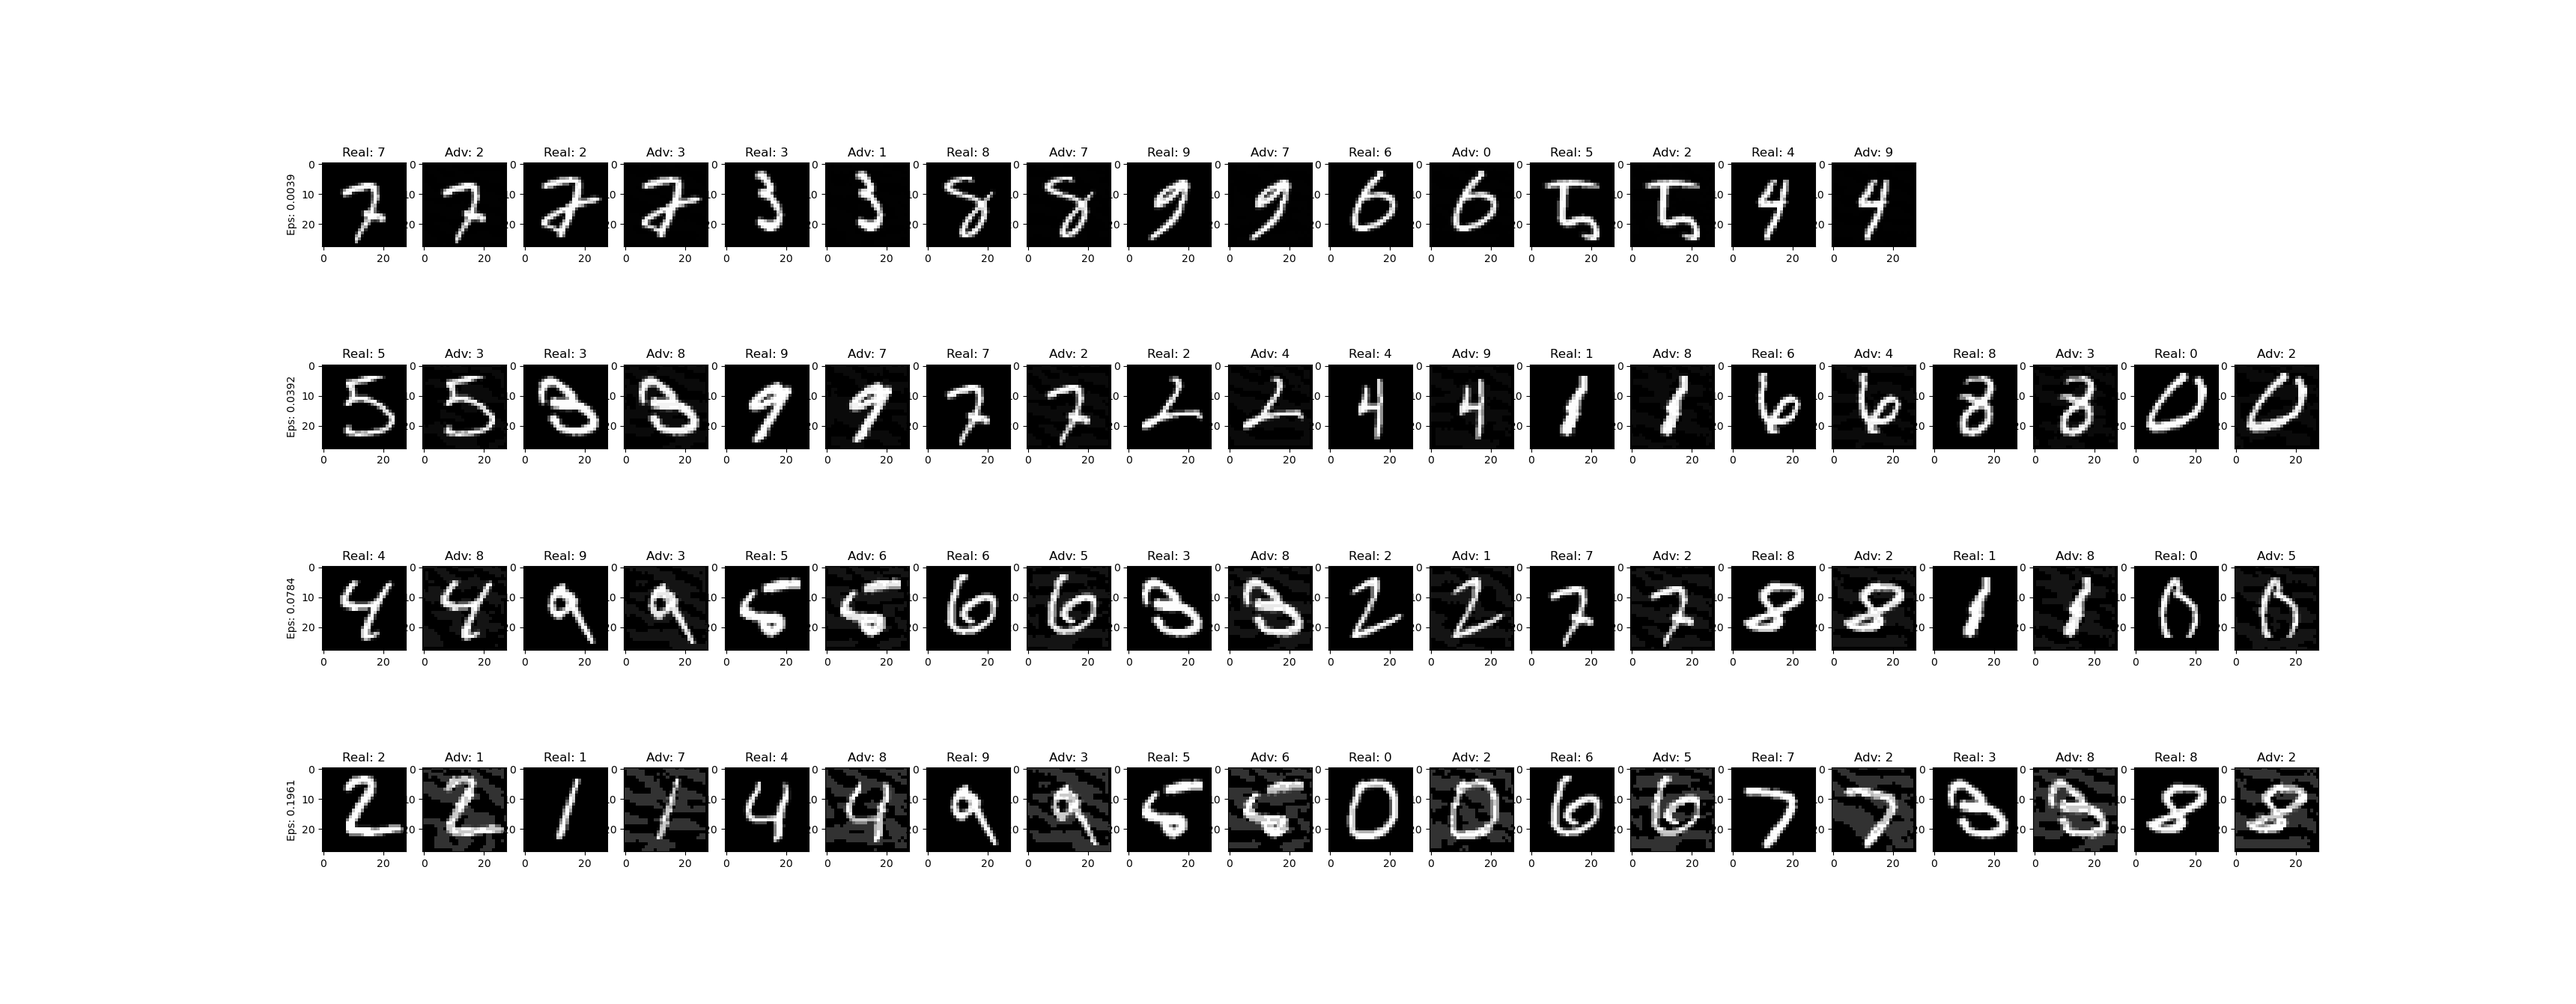
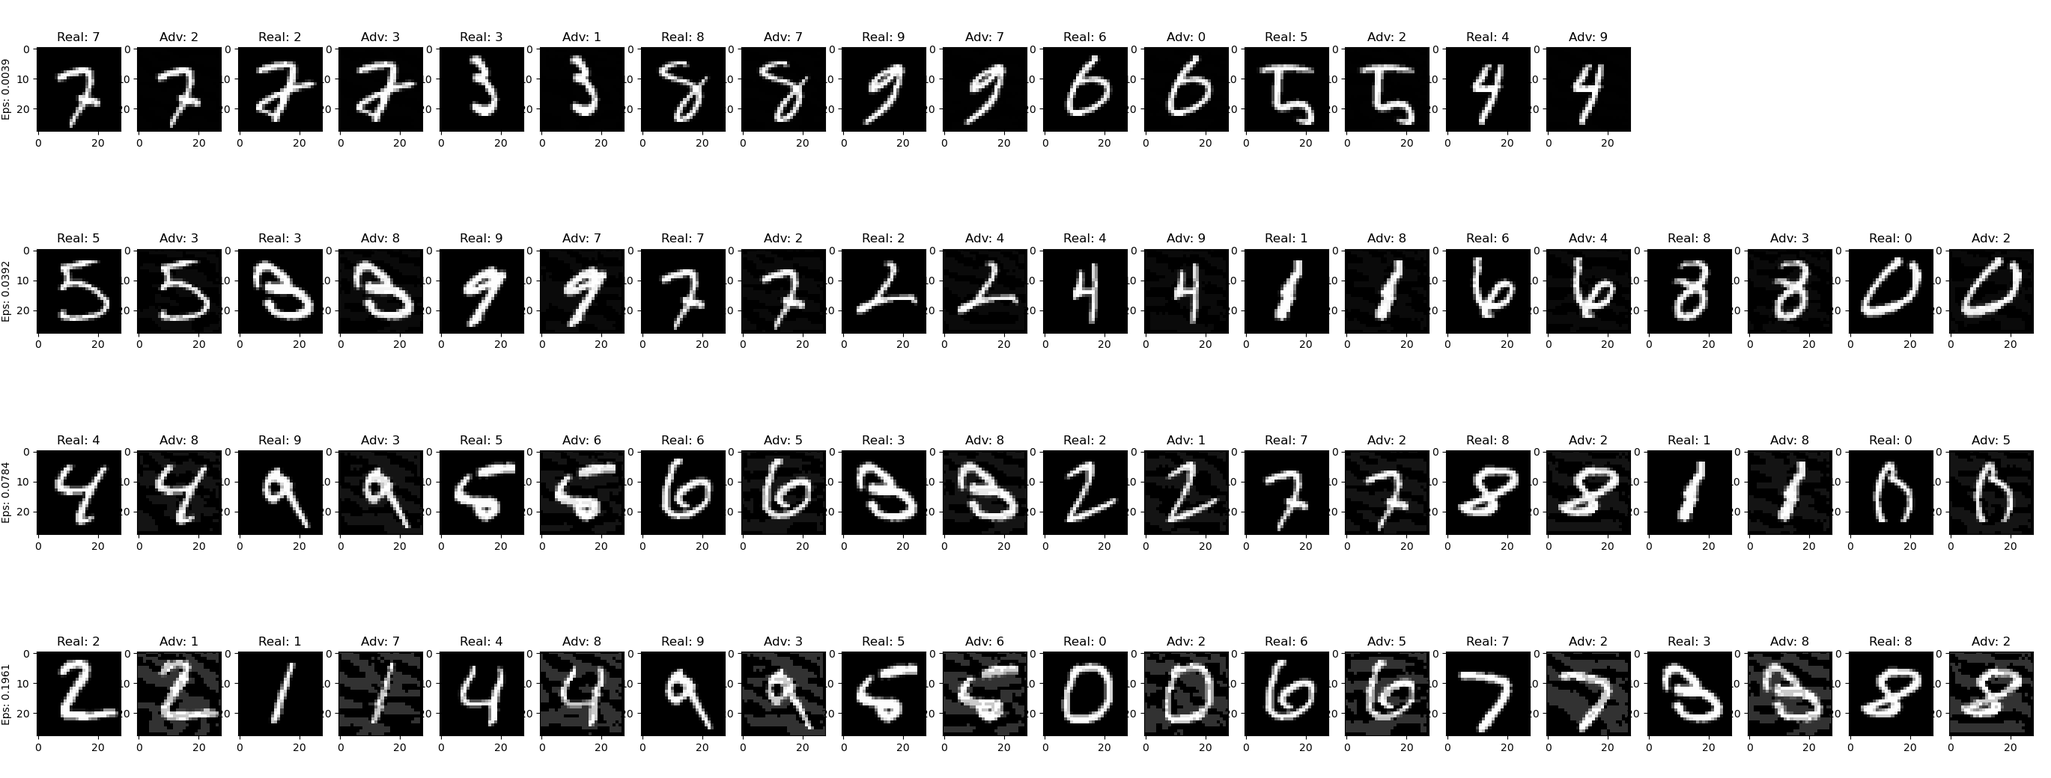
complete Multi-Targeted FGSM attack

diff --git a/attack.py b/attack.py
@@ -7,13 +7,13 @@ from time import time
 from torch.utils.data import DataLoader
 from torchvision.datasets import MNIST
 from models import Net2
-from utils import train, deepfool, fgsm_attack, test
+from utils import deepfool, fgsm_attack, test
 
 train_dataset = MNIST('./data', train=True, transform=torchvision.transforms.ToTensor(), download=True)
 test_dataset = MNIST('./data', train=False, transform=torchvision.transforms.ToTensor(), download=True)
 train_loader = DataLoader(train_dataset, 128)
 test_loader = DataLoader(test_dataset, 1)   
-# change 1 image each batch to get better adversarial examples
+# change 1 image each batch to get adversarial examples easier
 
 device = torch.device('cuda' if torch.cuda.is_available() else 'cpu')
 epsilons = np.array([1, 10, 20, 50]) / 255
@@ -212,6 +212,101 @@ for i, epsilon in enumerate(epsilons):
                 img = img.squeeze().detach().numpy()
                 pert_img = pert_img.squeeze().detach().numpy()
                 fgsm_examples[i].append((orig_target.item(), pert_target.item(), img, pert_img))
+        
+        if (k + 1) % 2000 == 0:
+            end = time()
+            print('fgsm attack on test image {}, total time spent {:.4f}'.format(k + 1, end - start))
+    
+    total_num = len(test_dataset)                               # No.(imgs)
+    attack_num = total_num - error                              # No.(attacked imgs)
+    attack_success_num = total_num - error - correct - failure  # No.(attacked succeeded imgs)
+    acc_rate = correct / total_num
+
+    rou_value[i] = rou / attack_success_num
+    asr_values[i] = attack_success_num / attack_num
+    print('epsilon: {:.4f}, accuracy: {:.4f}, attack success rate: {:.4f}, rou value: {:.4f}'.format(epsilon, acc_rate, asr_values[i], rou_value[i]))
+
+for i in range(len(epsilons)):
+    idx = 0
+    col = min(len(fgsm_examples[i]), 4)
+    row = int(np.ceil(len(fgsm_examples[i]) / 4))
+    plt.figure(figsize=(15, 15))
+    plt.title('Targeted FGSM attack, epsilon: {:.4f}'.format(epsilons[i]))
+    for j in range(len(fgsm_examples[i])):
+        orig_target, pert_target, img, pert_img = fgsm_examples[i][j]
+        idx += 1
+        plt.subplot(row, col * 2, idx)
+        plt.title('Real: {}'.format(orig_target))
+        plt.imshow(img, cmap='gray')
+        idx += 1
+        plt.subplot(row, col * 2, idx)
+        plt.title('Adv: {}'.format(pert_target))
+        plt.imshow(pert_img, cmap='gray')
+    plt.tight_layout()
+    plt.show()
+
+'''
+Third part:
+    try multiple times(10 iterations) of Targeted FGSM attack on each image
+    use 2 metrics to assess the performance -
+        1. attack success rate ASR = No(successful attacks) / No(attacks)
+        2. rou = E(sum(|perturbation| / |img|)) -> indicates how different the adversarial
+    the two metrics are only computed on the successful attack examples
+'''
+fgsm_examples = [[] for _ in epsilons]
+asr_values = np.zeros_like(epsilons)
+rou_value = np.zeros_like(epsilons)
+net.eval()
+for i, epsilon in enumerate(epsilons):
+    examples_found = np.zeros(10)
+    print('fgsm attacks with epsilon: {:.4f}'.format(epsilon))
+    correct, rou, error, failure = 0, 0, 0, 0
+    start = time()
+    for k, (img, target) in enumerate(test_loader):
+        
+        img = img.to(device)
+        target = target.to(device)
+        img.requires_grad = True
+        output = net(img)
+        orig_target = torch.argmax(output, dim=1)
+        if orig_target != target:
+            error += 1
+            continue
+
+        dest_target = (target + 1) % 10
+        loss = loss_fn(output, dest_target)
+        net.zero_grad()
+        loss.backward()
+        data_grad = img.grad
+        pert_img, pert = fgsm_attack(img, data_grad, epsilon, targeted=True)
+
+        iter = 0
+        while iter < 10:
+            pert_img = pert_img.detach()
+            pert_img.requires_grad = True
+            pert_output = net(pert_img)
+            pert_target = torch.argmax(pert_output, dim=1)
+            if pert_target == dest_target:
+                break
+            loss = loss_fn(pert_output, dest_target)
+            net.zero_grad()
+            loss.backward()
+            data_grad = pert_img.grad
+            pert_img, _ = fgsm_attack(pert_img, data_grad, epsilon, targeted=True)
+            iter += 1
+
+        if pert_target == dest_target:
+            pert = pert_img - img
+            rou += pert.norm() / img.norm()
+            if examples_found[orig_target] == 0:
+                examples_found[orig_target] = 1
+                img = img.squeeze().detach().numpy()
+                pert_img = pert_img.squeeze().detach().numpy()
+                fgsm_examples[i].append((orig_target.item(), pert_target.item(), img, pert_img))
+        elif pert_target == orig_target:
+            correct += 1
+        else:
+            failure += 1
         
         if (k + 1) % 2000 == 0:
             end = time()
